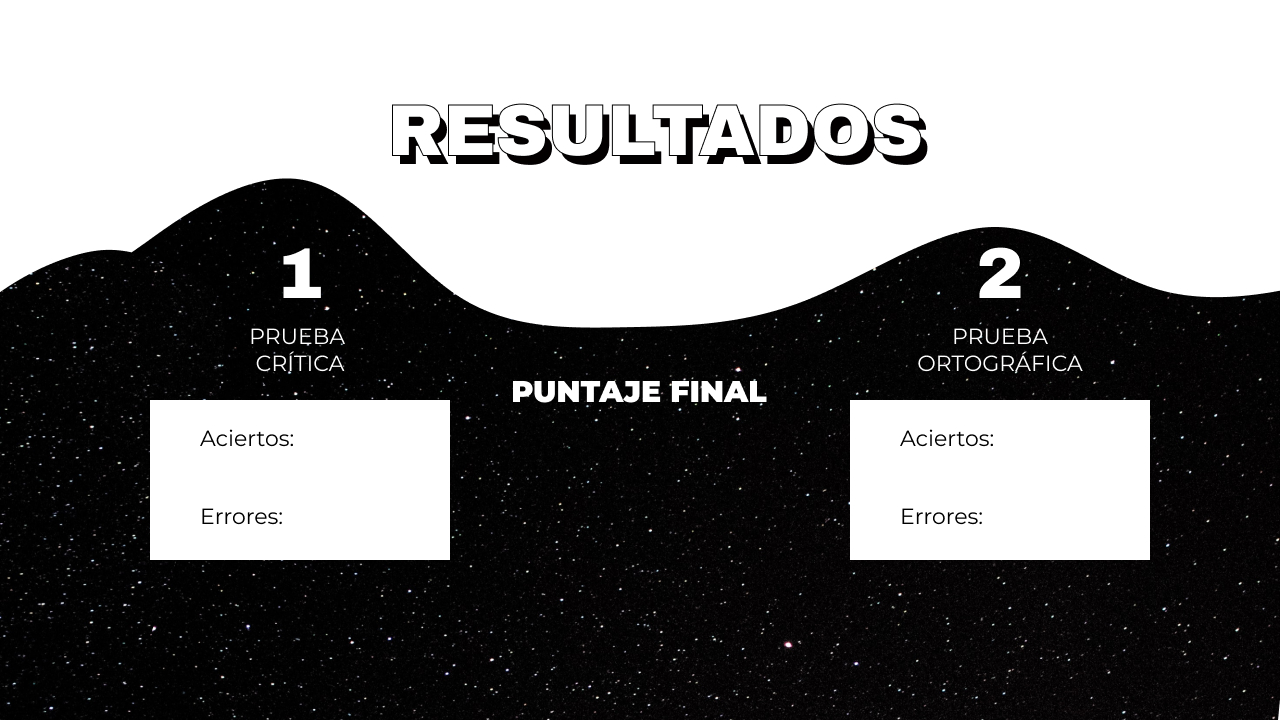
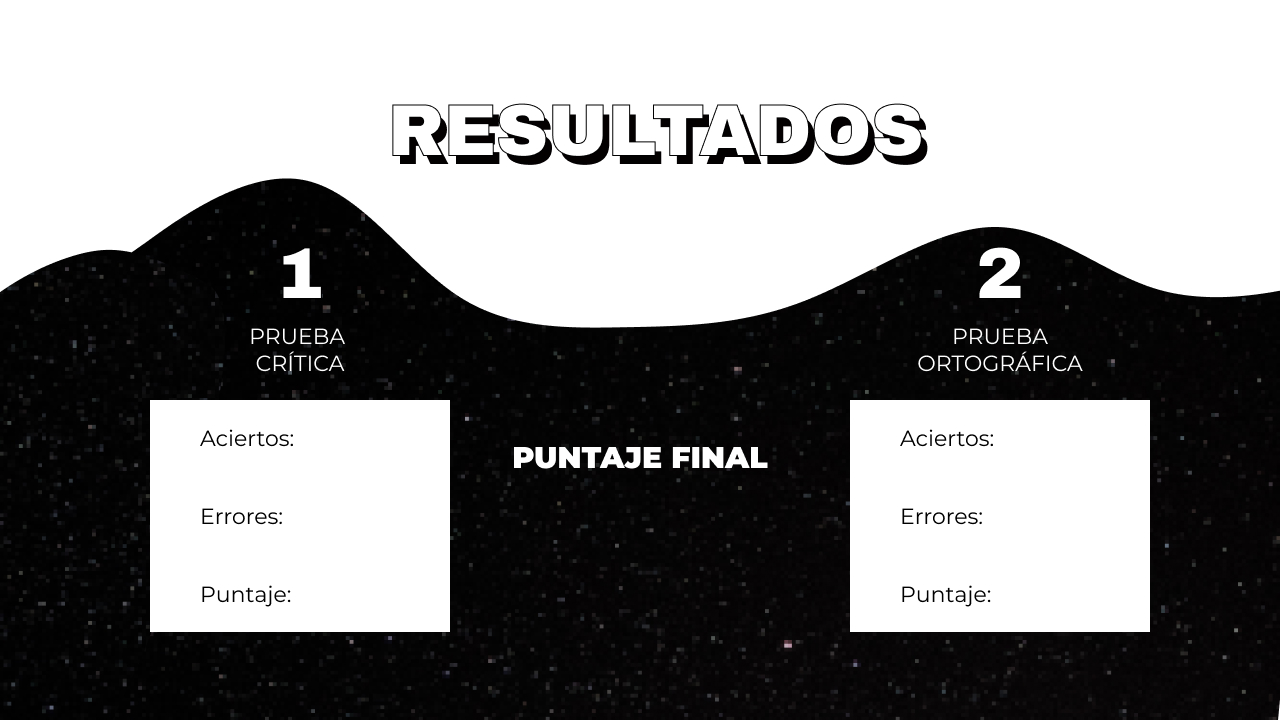
diseño arreglado

diff --git a/result.html b/result.html
@@ -5,6 +5,7 @@
     <meta charset="UTF-8">
     <meta name='viewport' content='width=device-width, initial-scale=1.0, maximum-scale=1.0, user-scalable=0' />
     <link rel="stylesheet" href="./style/main.css">
+    <link  rel="icon"   href="./resources/favicon.png" type="image/png" />
     <title>PLANETA LECTOR</title>
 </head>
 
@@ -15,12 +16,14 @@
         <div class="criticalTestResults">
             <h3 class="criticalTestResults__1">0</h3>
             <h3 class="criticalTestResults__2">0</h3>
+            <h3 class="criticalTestResults__3">0</h3>
         </div>
 
         <h2 class="total">500</h2>
 
         <div class="spellingTestResults">
             <h3 class="spellingTestResults__1">0</h3>
+            <h3 class="spellingTestResults__2">0</h3>
             <h3 class="spellingTestResults__2">0</h3>
         </div>
 

diff --git a/style/main.scss b/style/main.scss
@@ -44,7 +44,7 @@ body{
     &__cont{
         position: absolute;
         left: 87vh;
-        top: 49vh;
+        top: 40vh;
         width: 467px;
 
         .icon{
@@ -261,7 +261,7 @@ body{
         font-size: 76px;
         font-weight: bolder;
         color: white;
-        top: 69vh;
+        top: 75vh;
         left: 91vh;
     }
 
@@ -292,7 +292,7 @@ body{
     &__button{
         position: absolute;
         left: 70.5vh;
-        top: 96.4vh;
+        top: 105.4vh;
         height: 41px;
         width: 422px;
         font-size: 18px;

diff --git a/style/main.css b/style/main.css
@@ -280,7 +280,7 @@ body {
 .levels__cont {
   position: absolute;
   left: 87vh;
-  top: 49vh;
+  top: 40vh;
   width: 467px;
 }
 
@@ -500,7 +500,7 @@ body {
   font-size: 76px;
   font-weight: bolder;
   color: white;
-  top: 69vh;
+  top: 75vh;
   left: 91vh;
 }
 
@@ -540,7 +540,7 @@ body {
 .result__button {
   position: absolute;
   left: 70.5vh;
-  top: 96.4vh;
+  top: 105.4vh;
   height: 41px;
   width: 422px;
   font-size: 18px;

diff --git a/spellingtest.html b/spellingtest.html
@@ -4,6 +4,7 @@
 <head>
     <meta charset="UTF-8">
     <meta name='viewport' content='width=device-width, initial-scale=1.0, maximum-scale=1.0, user-scalable=0' />
+    <link  rel="icon"   href="./resources/favicon.png" type="image/png" />
     <link rel="stylesheet" href="./style/main.css">
     <title>PLANETA LECTOR</title>
 </head>

diff --git a/criticaltest.html b/criticaltest.html
@@ -5,6 +5,7 @@
     <meta charset="UTF-8">
     <meta name='viewport' content='width=device-width, initial-scale=1.0, maximum-scale=1.0, user-scalable=0' />
     <link rel="stylesheet" href="./style/main.css">
+    <link  rel="icon"   href="./resources/favicon.png" type="image/png" />
     <title>PLANETA LECTOR</title>
 </head>
 

diff --git a/index.html b/index.html
@@ -5,6 +5,7 @@
     <meta charset="UTF-8">
     <meta name='viewport' content='width=device-width, initial-scale=1.0, maximum-scale=1.0, user-scalable=0' />
     <link rel="stylesheet" href="./style/main.css">
+    <link  rel="icon"   href="./resources/favicon.png" type="image/png" />
     <title>PLANETA LECTOR</title>
 </head>
 

diff --git a/levels.html b/levels.html
@@ -5,6 +5,7 @@
     <meta charset="UTF-8">
     <meta name='viewport' content='width=device-width, initial-scale=1.0, maximum-scale=1.0, user-scalable=0' />
     <link rel="stylesheet" href="./style/main.css">
+    <link  rel="icon"   href="./resources/favicon.png" type="image/png" />
     <title>PLANETA LECTOR</title>
 </head>
 

diff --git a/reading.html b/reading.html
@@ -5,6 +5,7 @@
     <meta charset="UTF-8">
     <meta name='viewport' content='width=device-width, initial-scale=1.0, maximum-scale=1.0, user-scalable=0' />
     <link rel="stylesheet" href="./style/main.css">
+    <link  rel="icon"   href="./resources/favicon.png" type="image/png" />
     <title>PLANETA LECTOR</title>
 </head>
 
